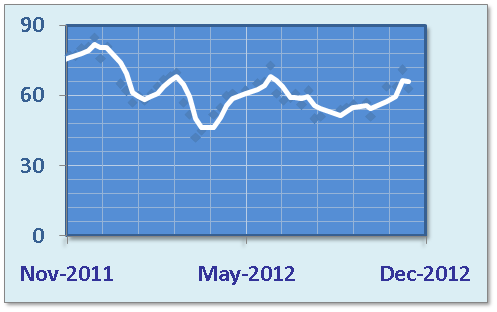
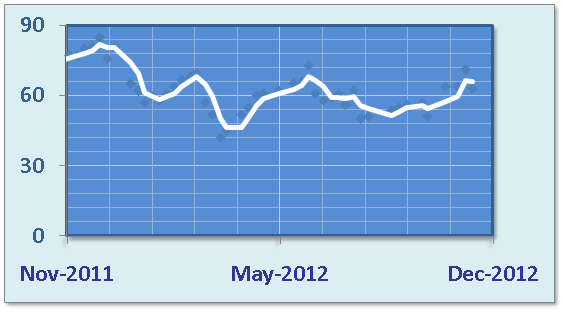
Minor update to layout

diff --git a/trunk/app/view/MainListContainer.js b/trunk/app/view/MainListContainer.js
@@ -46,42 +46,33 @@ Ext.define("itsm.view.MainListContainer", {
 
 		var itsmList = {
 			xtype: "itsmlist",
-			flex: 3,
+			flex: "2.7",
 			store: Ext.getStore("itsm"),
 			listeners: {
 				disclose: { fn: this.onNotesListDisclose, scope: this }
 			}
 		};
 
-		/*
-		var itsmOverview = {
-			xtype: 'panel',
-			flex: 2,
-			html: "<div class='itsm-case-overview'>&nbsp;</div>"
-		};
-		*/
 		var itsmOverview = {
 //			xtype: 'itsmoverview',
-//			flex: 2
+/* <<< */
 			xtype: 'carousel',
 			defaults: {
 				styleHtmlContent: true
 			},
 			items: [
 				{
-//					html: "<div id='otcs-image-container-1y'></div>"
-					html: "<img src='resources/images/otcs-6m.png' width='248px'/>"
+					html: "<img src='resources/images/otcs-6m.png' width='284px'/>"
 				},
 				{
-//					html: "<div id='otcs-image-container-1y'></div>"
-					html: "<img src='resources/images/otcs-1y.png' width='248px'/>"
+					html: "<img src='resources/images/otcs-1y.png' width='284px'/>"
 				},
 				{
-//					html: "<div id='otcs-image-container-6m'></div"
-					html: "<img src='resources/images/otcs-5y.png' width='248px'/>"
+					html: "<img src='resources/images/otcs-5y.png' width='284px'/>"
 				}
 			],
-			flex: 2 
+/* >>> */
+			flex: "2.3"
 		};
 
 		var settings = Ext.getStore('settings');

diff --git a/trunk/app/view/itsmOverview.js b/trunk/app/view/itsmOverview.js
@@ -1,17 +1,21 @@
 Ext.define("itsm.view.itsmOverview", {
-	extend: 'Ext.Carousel',
+	extend: 'Ext.Container',
+	requires: [
+		'Ext.carousel.Carousel'
+	],
 	alias: 'widget.itsmoverview',
-	defaults: {
-		styleHtmlContent: true
-	},
-	items: [
-		{
-			html: '1 year overview',
-			style: "id: otcs-image-container-1y"
-		},
-		{
-			html: '6 months overview',
-			style: "id: otcs-image-container-6m"
-		}
-	]
+	confing: {
+		xtype: 'carousel',
+		items: [
+			{
+				html: "<img src='resources/images/otcs-6m.png' width='284px'/>"
+			},
+			{
+				html: "<img src='resources/images/otcs-1y.png' width='284px'/>"
+			},
+			{
+				html: "<img src='resources/images/otcs-5y.png' width='284px'/>"
+			}
+		],
+	}
 });
